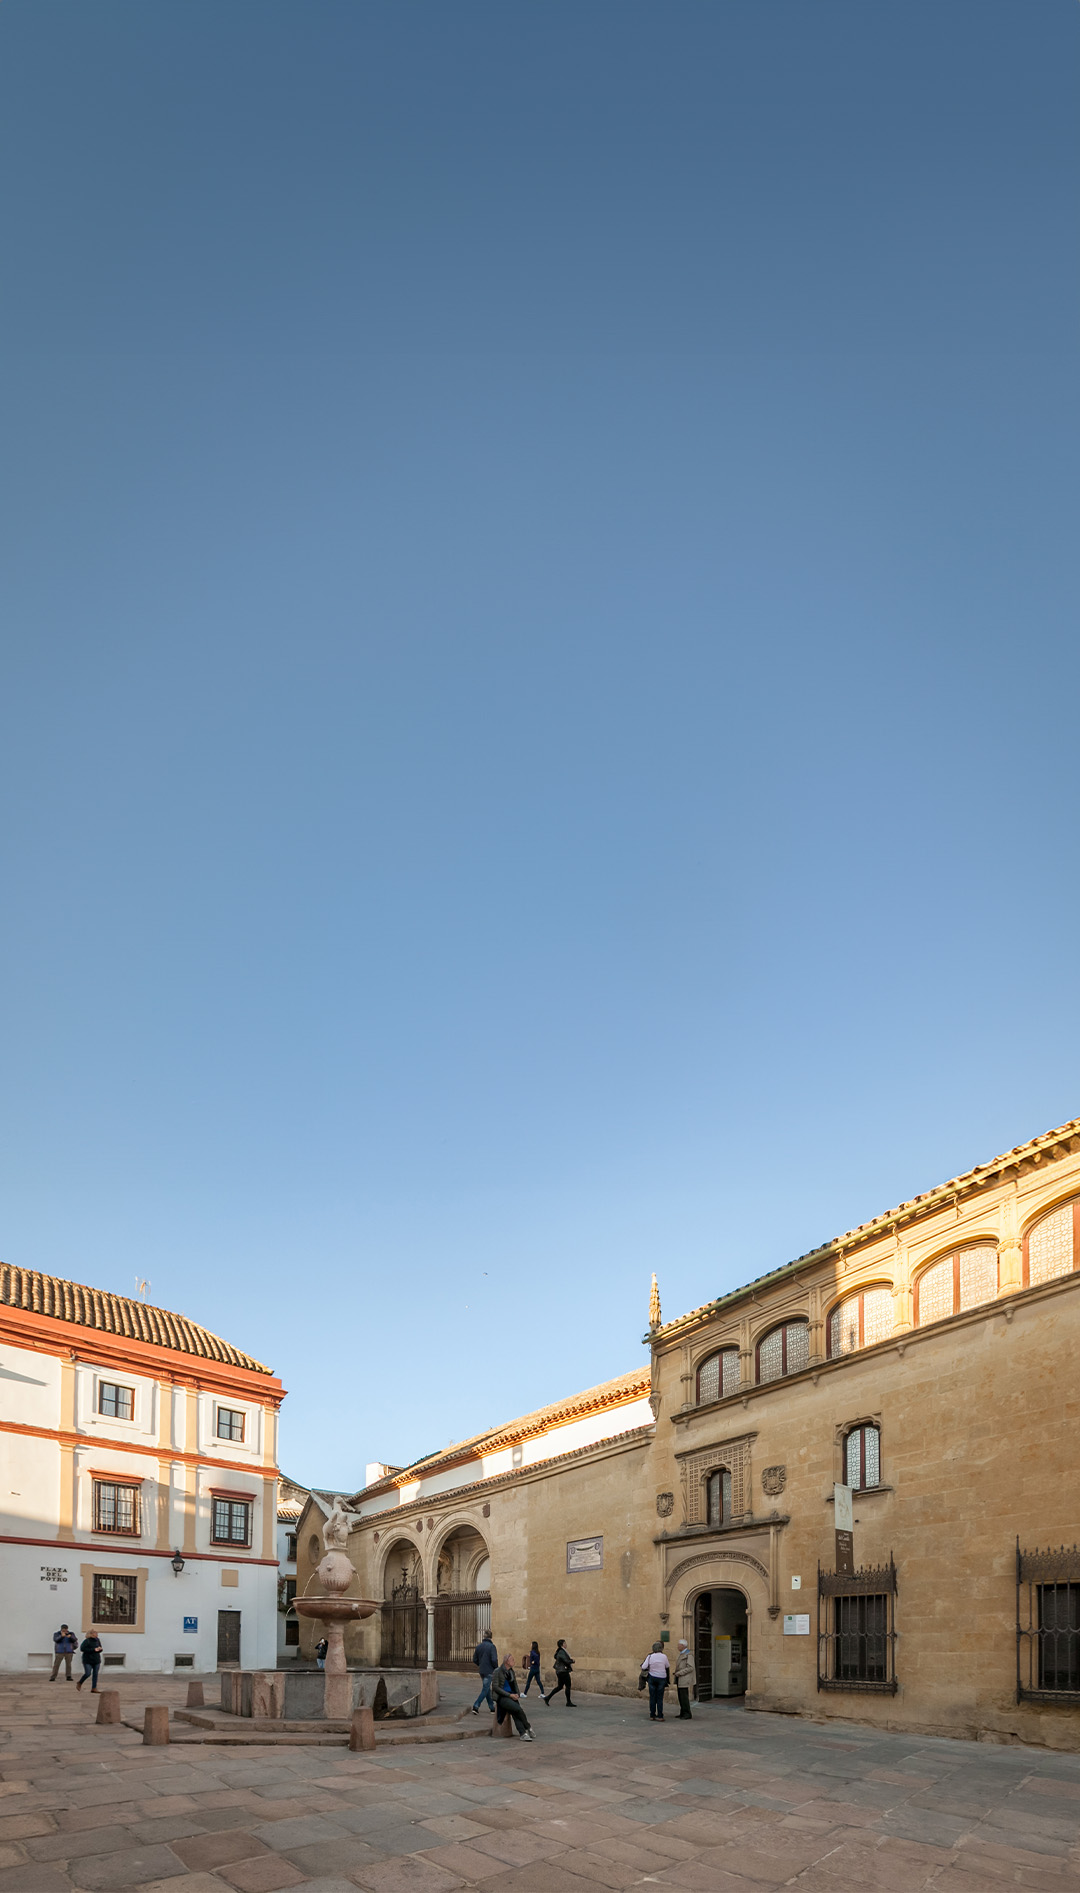
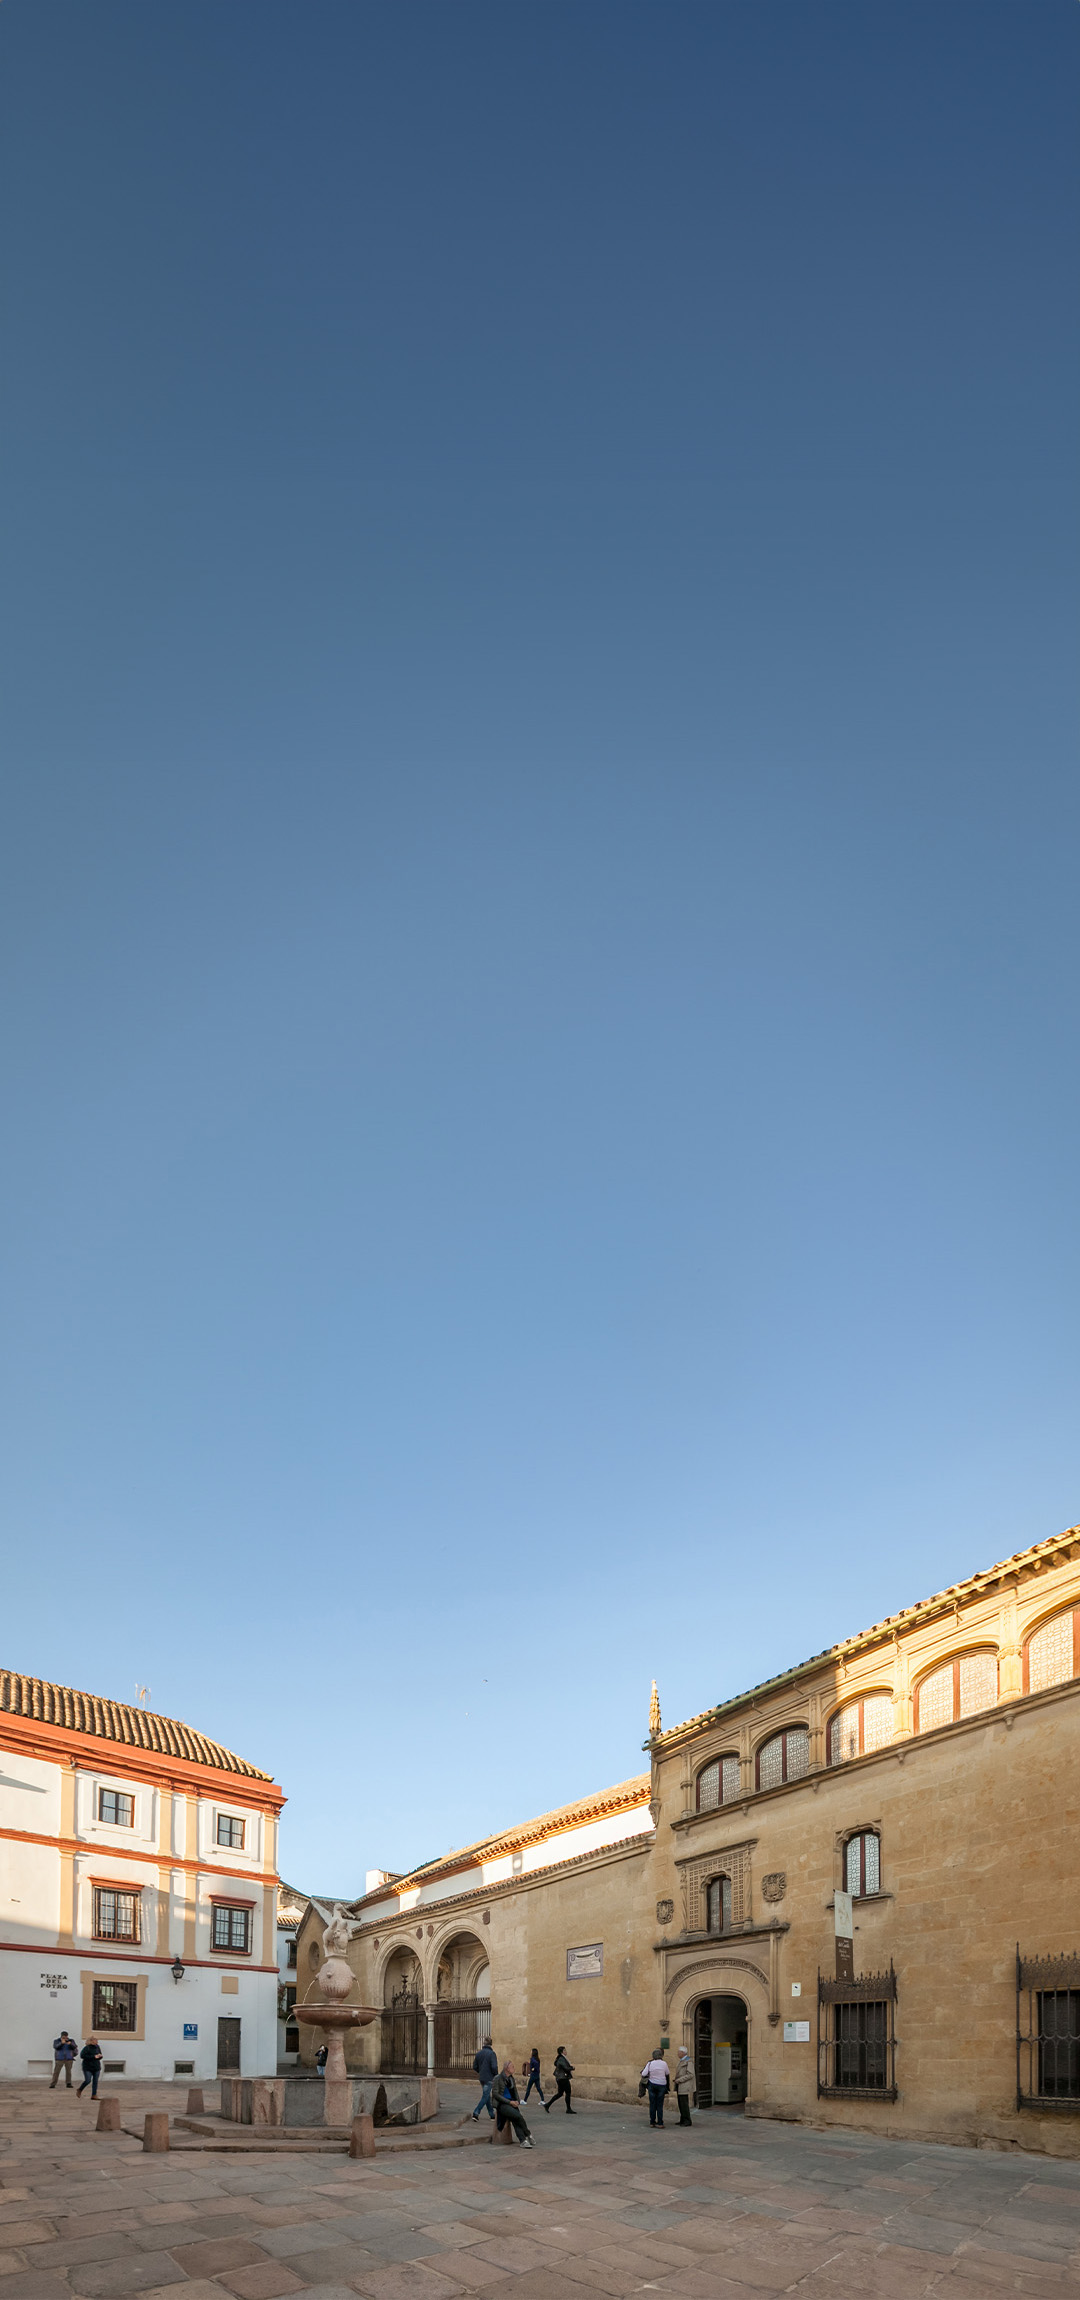
Móvil: menú con idiomas bajo el teléfono, sin scroll lateral en iPhone, opiniones a 80px, antetítulos a 10px, dientes de león y texto de Córdoba más abajo, footer nuevo

Changed region(s): [[0.0, 0.4987, 1.0, 0.9974], [0.1833, 0.187, 0.825, 0.3428], [0.8861, 0.0, 1.0, 0.0312]]

diff --git a/src/css/style.css b/src/css/style.css
@@ -5,7 +5,7 @@
 
 /* ---------- Base ---------- */
 *, *::before, *::after { box-sizing: border-box; }
-html { -webkit-text-size-adjust: 100%; overflow-x: clip; } /* nunca hay scroll lateral (los carruseles son más anchos que la pantalla) */
+html { -webkit-text-size-adjust: 100%; overflow-x: hidden; } /* nunca hay scroll lateral (los carruseles son más anchos que la pantalla); hidden y no clip: el iPhone ignora clip aquí */
 body {
   margin: 0;
   font-family: var(--f-sans);
@@ -13,6 +13,7 @@ body {
   color: var(--c-olive-dark);
   background: var(--c-bg);
   -webkit-font-smoothing: antialiased;
+  overflow-x: clip;                           /* refuerzo para iPhone; clip (no hidden) para no romper el hero fijo */
 }
 img { display: block; max-width: 100%; }
 picture { display: contents; } /* <picture> solo elige la foto de móvil o escritorio; no cambia la maquetación */
@@ -644,13 +645,14 @@ button { font: inherit; color: inherit; background: none; border: 0; cursor: poi
 
 
 @media (max-width: 767px) {
-  .experience { padding: 80px 0; }
+  .experience { padding: 80px 0 0; }   /* abajo 0: el aire hasta Opiniones lo pone su propio padding (80px) */
   .experience__intro { padding: 0 var(--gutter-sm); margin-bottom: 56px; }
   .experience__title { font-size: 1.75rem; }
   .experience__text { margin: 32px 0 0; }
   .experience__text p { margin-bottom: 36px; }
   .strip__img { height: 84vw; }
   .strip { margin-block: 80px; }   /* al menos 80px por encima y por debajo de cada carrusel */
+  .experience .strip { margin-bottom: 0; }   /* en la Home, bajo este carrusel solo cuentan los 80px de Opiniones */
   }
 
 /* Saltos de línea solo para escritorio: en móvil el texto fluye libre */
@@ -773,8 +775,8 @@ button { font: inherit; color: inherit; background: none; border: 0; cursor: poi
 @keyframes reviews-progress { to { width: 100%; } }
 
 @media (max-width: 767px) {
-  .hero ~ section.testimonials { padding: 110px var(--gutter-sm) 80px; }
-  .testimonials__deco { top: 40px; right: 0; width: 60vw; }
+  .hero ~ section.testimonials { padding: 80px var(--gutter-sm) 80px; }
+  .testimonials__deco { top: var(--reviews-deco-top-mobile); right: 0; width: 60vw; }
   .testimonials__title { font-size: 2rem; }
   .testimonials__slider { margin-top: 56px; }
   .testimonial__line { margin: 32px 0 28px; }
@@ -804,7 +806,7 @@ button { font: inherit; color: inherit; background: none; border: 0; cursor: poi
 }
 
 @media (max-width: 767px) {
-  .city__content { top: 64px; }
+  .city__content { top: var(--city-text-top-mobile); }
   .city__title { font-size: 1.75rem; margin-bottom: 32px; }
   .city__title br { display: none; }
 }
@@ -893,14 +895,26 @@ button { font: inherit; color: inherit; background: none; border: 0; cursor: poi
 .footer__legal { display: flex; gap: 24px; }
 .footer__copy { margin: 0; }
 
+/* Móvil (Figma «Footer_movil»): bloques apilados separados por líneas a todo el ancho;
+   margen lateral --footer-side-mobile y aire vertical --footer-block-mobile */
 @media (max-width: 767px) {
-  .footer__claim { padding: 80px var(--gutter-sm) 80px; }
+  .footer__claim { padding: 120px var(--gutter-sm); }
+  .footer__logo { width: 52px; }
   .footer__title { font-size: 1.75rem; }
   .footer__main,
-  .footer__bottom { grid-template-columns: 1fr; gap: 40px; }
-  .footer__main { padding-bottom: 60px; }
-  .footer__social { margin-top: 0 !important; }
-  .footer__bottom { gap: 24px; padding-bottom: 140px; } /* deja sitio a los botones fijos */
+  .footer__bottom { grid-template-columns: 1fr; gap: 0; padding: 0; }
+  .footer .footer__main > *,
+  .footer .footer__bottom > * { padding: var(--footer-block-mobile) var(--footer-side-mobile); }
+  .footer__main > .footer__col:first-child { border-bottom: 1px solid rgba(223, 224, 195, .2); } /* línea entre Menú y Dirección */
+  .footer__menu { line-height: 1.8; }                       /* 43px entre opciones */
+  .footer__address { font-size: 1.25rem; line-height: 1.5; } /* 20px */
+  .footer__address p:last-child { margin-bottom: 0; line-height: 1.85; }
+  #contacto { padding-bottom: 0; }                          /* redes en el mismo bloque que la dirección */
+  .footer__social { gap: 20px; margin-top: 0 !important; }
+  .footer__michelin { border-bottom: 1px solid rgba(223, 224, 195, .2); }
+  .footer__michelin img { width: 68px; }
+  .footer__legal { flex-direction: column; gap: 14px; padding-bottom: 14px !important; }
+  .footer__copy { padding-top: 0 !important; padding-bottom: 60px !important; }
 }
 
 /* ==========================================================
@@ -1683,6 +1697,7 @@ html:has(body.no-scroll) { overflow: hidden; } /* Safari: si no, la página de d
 .is-back > .slider__next svg { rotate: 180deg; } /* mitad izquierda: apunta atrás */
 @media (max-width: 767px) {
   .slider__next { width: 56px; height: 56px; transform: translate(calc(100cqw - var(--gutter-sm) - 56px), calc(50cqh - 28px)); }
+  .rooms__slider .slider__next { display: none; } /* Home · habitaciones: sin flecha en móvil (se desliza con el dedo) */
 }
 .feature--offset .feature__media { aspect-ratio: 2477 / 2846; } /* proporción de la foto del hammam; se mueve con parallax como las demás */
 .feature--offset .feature__img { object-position: 0% 50%; } /* hammam: mismo parallax que las demás; el recorte se hace solo por la derecha (pared azul) para no cortar al huésped */
@@ -2069,16 +2084,16 @@ body.menu-leaving .menu__col::after { scale: 1 0; transition-delay: 0s; }
      iconos → botones. La primera fila (71px, medido en Safari) compensa para que el centro no se desplace */
   .menu__col {
     display: grid;
-    grid-template-rows: 2.6fr auto 1fr auto 1.4fr auto 1fr;   /* etiquetas y contacto un poco por encima del centro */
+    grid-template-rows: 3.6fr auto 1fr 0 1fr auto auto 1fr;   /* etiquetas · correo y teléfono · idiomas · sitio para Reservar/Cerrar */
     justify-items: center;
     padding: 54px 0 100px;                      /* arriba: justo bajo el logo · abajo: sitio para Reservar/Cerrar */
   }
   .menu__nav { grid-row: 2; margin: 0; }
-  .menu__contact { grid-row: 4; position: static; margin: 0; gap: 14px; }   /* email y teléfono separados: cómodos de pulsar */
+  .menu__contact { grid-row: 6; position: static; margin: 0; gap: 2px; }   /* email y teléfono en el sitio de las redes · separados: cómodos de pulsar */
   .menu__contact a { padding: 6px 0; }
-  .menu__social { grid-row: 6; position: static; }
+  .menu__social { display: none; }             /* móvil: sin redes sociales en el menú */
   /* Idioma bajo el logo: ES · EN · FR · DE, el elegido resaltado */
-  .menu__lang { display: flex; grid-row: 1; align-self: center; gap: 4px; margin: 0; padding: 0; list-style: none; } /* centrado entre el logo y las etiquetas */
+  .menu__lang { display: flex; grid-row: 7; align-self: start; gap: 4px; margin: 24px 0 0; padding: 0; list-style: none; } /* debajo del teléfono */
   .menu__lang button {
     min-width: 44px;                            /* zona cómoda para el dedo */
     height: 36px;
@@ -2427,4 +2442,10 @@ html.is-loading body { background: transparent; }
 @media (max-width: 767px) {
   .loader { padding-bottom: 130px; }          /* texto inferior (80px + su alto): el símbolo se centra en el resto */
   .loader__mark { width: 84px; }              /* 104px en escritorio */
+}
+
+/* Móvil · antetítulos: mismo espacio hasta el texto de debajo en todas las páginas (--eyebrow-gap-mobile) */
+@media (max-width: 767px) {
+  .eyebrow:not(.testimonial .eyebrow, .guide__contact .eyebrow) { margin-bottom: 0 !important; }
+  .eyebrow:not(.testimonial .eyebrow, .guide__contact .eyebrow) + * { margin-top: var(--eyebrow-gap-mobile) !important; }
 }

diff --git a/src/css/tokens.css b/src/css/tokens.css
@@ -136,7 +136,12 @@
   --guide-note-max: 330px;  /* Sobre Córdoba (móvil y tableta): ancho máximo de las notas de 40°C y salmorejo */
   --leaf-gap: 20px; /* El hotel: espacio entre la hoja y «Te esperamos en Viento 10»; antes 60px */
   --city-text-top: 400; /* escritorio: distancia en px (a 1440) del texto «Sobre Córdoba» al borde superior de su foto; antes 225 */
+  --city-text-top-mobile: 100px; /* móvil: distancia del texto «Sobre Córdoba» al borde superior de su foto (antes 64px) */
+  --footer-side-mobile: 60px;  /* móvil · footer: margen a izquierda y derecha del contenido */
+  --footer-block-mobile: 40px; /* móvil · footer: espacio arriba y abajo de cada bloque (entre líneas) */
   --reviews-pad: 16.25rem;      /* espacio arriba y abajo de la sección de opiniones (240px); antes 12.5rem = 200px */
+  --eyebrow-gap-mobile: 10px;   /* móvil: espacio entre el antetítulo y el texto de debajo (antes 20px) */
+  --reviews-deco-top-mobile: 140px; /* móvil · opiniones: altura de los dientes de león desde arriba de la sección (antes 40px); más alto = más cerca de la cita */
   --reviews-move: 30px;      /* distancia que sube cada opinión al aparecer (0 = solo fundido) */
   --reviews-fade-delay: .6s; /* la nueva entra cuando la anterior ya casi se ha ido */
 

diff --git a/src/cordoba.html b/src/cordoba.html
@@ -4,8 +4,8 @@
   <meta charset="UTF-8">
   <meta name="viewport" content="width=device-width, initial-scale=1.0">
   <title>Sobre Córdoba • Viento 10, hotel boutique en Córdoba</title>
-  <link rel="stylesheet" href="css/tokens.css?v=2026-11-12a">
-  <link rel="stylesheet" href="css/style.css?v=2026-11-12a">
+  <link rel="stylesheet" href="css/tokens.css?v=2026-11-12c">
+  <link rel="stylesheet" href="css/style.css?v=2026-11-12c">
 </head>
 <body class="page-cream">
 
@@ -369,6 +369,6 @@
     </div>
   </footer>
 
-  <script src="js/main.js?v=2026-11-12a"></script>
+  <script src="js/main.js?v=2026-11-12c"></script>
 </body>
 </html>

diff --git a/src/contacto.html b/src/contacto.html
@@ -4,8 +4,8 @@
   <meta charset="UTF-8">
   <meta name="viewport" content="width=device-width, initial-scale=1.0">
   <title>Contacto • Viento 10, hotel boutique en Córdoba</title>
-  <link rel="stylesheet" href="css/tokens.css?v=2026-11-12a">
-  <link rel="stylesheet" href="css/style.css?v=2026-11-12a">
+  <link rel="stylesheet" href="css/tokens.css?v=2026-11-12c">
+  <link rel="stylesheet" href="css/style.css?v=2026-11-12c">
 </head>
 <body class="page-cream">
 
@@ -276,6 +276,6 @@
     </div>
   </footer>
 
-  <script src="js/main.js?v=2026-11-12a"></script>
+  <script src="js/main.js?v=2026-11-12c"></script>
 </body>
 </html>

diff --git a/src/vivir.html b/src/vivir.html
@@ -4,8 +4,8 @@
   <meta charset="UTF-8">
   <meta name="viewport" content="width=device-width, initial-scale=1.0">
   <title>Vivir Viento 10 • Viento 10, hotel boutique en Córdoba</title>
-  <link rel="stylesheet" href="css/tokens.css?v=2026-11-12a">
-  <link rel="stylesheet" href="css/style.css?v=2026-11-12a">
+  <link rel="stylesheet" href="css/tokens.css?v=2026-11-12c">
+  <link rel="stylesheet" href="css/style.css?v=2026-11-12c">
 </head>
 <body>
 
@@ -296,6 +296,6 @@
     </div>
   </footer>
 
-  <script src="js/main.js?v=2026-11-12a"></script>
+  <script src="js/main.js?v=2026-11-12c"></script>
 </body>
 </html>

diff --git a/src/habitaciones.html b/src/habitaciones.html
@@ -4,8 +4,8 @@
   <meta charset="UTF-8">
   <meta name="viewport" content="width=device-width, initial-scale=1.0">
   <title>Habitaciones • Viento 10, hotel boutique en Córdoba</title>
-  <link rel="stylesheet" href="css/tokens.css?v=2026-11-12a">
-  <link rel="stylesheet" href="css/style.css?v=2026-11-12a">
+  <link rel="stylesheet" href="css/tokens.css?v=2026-11-12c">
+  <link rel="stylesheet" href="css/style.css?v=2026-11-12c">
 </head>
 <body>
 
@@ -512,6 +512,6 @@
     </div>
   </dialog>
 
-  <script src="js/main.js?v=2026-11-12a"></script>
+  <script src="js/main.js?v=2026-11-12c"></script>
 </body>
 </html>

diff --git a/src/hotel.html b/src/hotel.html
@@ -4,8 +4,8 @@
   <meta charset="UTF-8">
   <meta name="viewport" content="width=device-width, initial-scale=1.0">
   <title>El hotel • Viento 10, hotel boutique en Córdoba</title>
-  <link rel="stylesheet" href="css/tokens.css?v=2026-11-12a">
-  <link rel="stylesheet" href="css/style.css?v=2026-11-12a">
+  <link rel="stylesheet" href="css/tokens.css?v=2026-11-12c">
+  <link rel="stylesheet" href="css/style.css?v=2026-11-12c">
 </head>
 <body>
 
@@ -273,6 +273,6 @@
     </div>
   </footer>
 
-  <script src="js/main.js?v=2026-11-12a"></script>
+  <script src="js/main.js?v=2026-11-12c"></script>
 </body>
 </html>

diff --git a/src/index.html b/src/index.html
@@ -4,8 +4,8 @@
   <meta charset="UTF-8">
   <meta name="viewport" content="width=device-width, initial-scale=1.0">
   <title>Viento 10 • Hotel boutique en Córdoba</title>
-  <link rel="stylesheet" href="css/tokens.css?v=2026-11-12a">
-  <link rel="stylesheet" href="css/style.css?v=2026-11-12a">
+  <link rel="stylesheet" href="css/tokens.css?v=2026-11-12c">
+  <link rel="stylesheet" href="css/style.css?v=2026-11-12c">
 </head>
 <body>
 
@@ -341,6 +341,6 @@
     </div>
   </footer>
 
-  <script src="js/main.js?v=2026-11-12a"></script>
+  <script src="js/main.js?v=2026-11-12c"></script>
 </body>
 </html>
